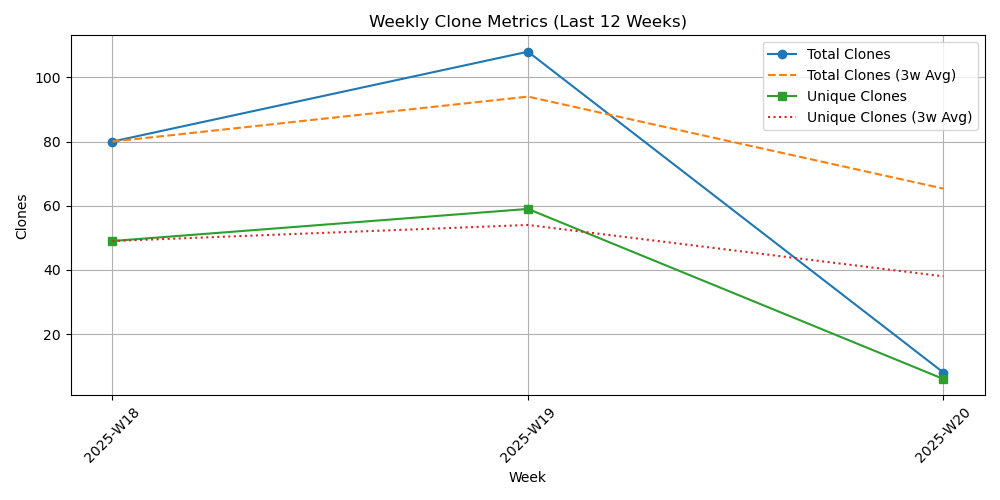
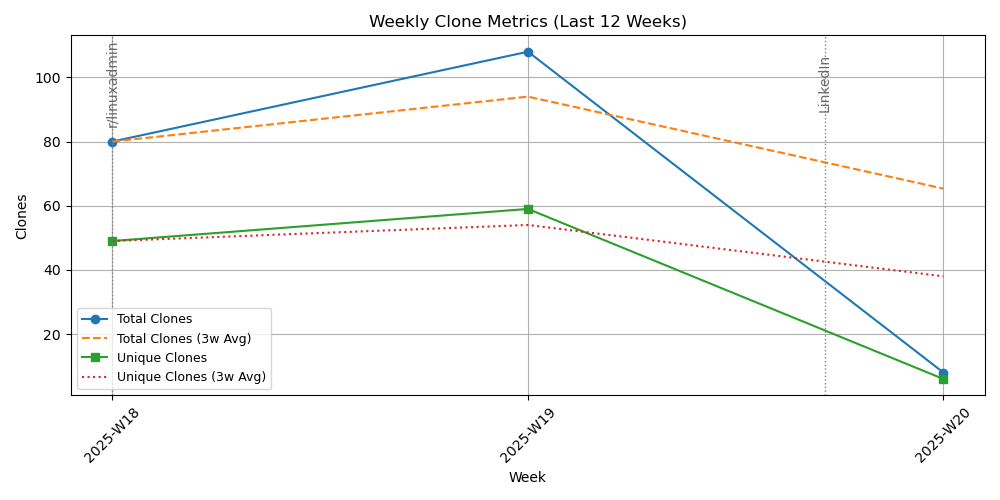
Annotations on clones dashboard

Changed region(s): [[0.775, 0.09, 0.992, 0.27], [0.062, 0.6, 0.279, 0.78], [0.093, 0.09, 0.124, 0.24]]

diff --git a/v2/src/misc/generate_clone_dashboard.py b/v2/src/misc/generate_clone_dashboard.py
@@ -1,3 +1,10 @@
+"""
+Script to generate a clone dashboard from the clones.json file.
+
+It aggregates daily clone data into weekly metrics and mark the annotations stored in the clones.json.
+"""
+
+
 import os
 import json
 import pandas as pd
@@ -24,22 +31,64 @@ weekly_data = weekly_data.sort_values('week').tail(12)
 weekly_data['count_avg'] = weekly_data['count'].rolling(window=3, min_periods=1).mean()
 weekly_data['uniques_avg'] = weekly_data['uniques'].rolling(window=3, min_periods=1).mean()
 
+# Prepare week positions
+weeks = weekly_data['week'].tolist()
+week_dates = pd.to_datetime(weekly_data['week'] + '-1', format='%Y-W%U-%w')  # week starts (Monday)
+
+# Extract annotation dates
+annotations = clones_data.get("annotations", [])
+annotation_df = pd.DataFrame(annotations)
+if not annotation_df.empty:
+    annotation_df['date'] = pd.to_datetime(annotation_df['date'])
+    annotation_df = annotation_df.sort_values('date')
+
 # Plot
-plt.figure(figsize=(10, 5))
-plt.plot(weekly_data['week'], weekly_data['count'], label='Total Clones', marker='o')
-plt.plot(weekly_data['week'], weekly_data['count_avg'], label='Total Clones (3w Avg)', linestyle='--')
+fig, ax = plt.subplots(figsize=(10, 5))
+ax.plot(weeks, weekly_data['count'], label='Total Clones', marker='o')
+ax.plot(weeks, weekly_data['count_avg'], label='Total Clones (3w Avg)', linestyle='--')
 
-plt.plot(weekly_data['week'], weekly_data['uniques'], label='Unique Clones', marker='s')
-plt.plot(weekly_data['week'], weekly_data['uniques_avg'], label='Unique Clones (3w Avg)', linestyle=':')
+ax.plot(weeks, weekly_data['uniques'], label='Unique Clones', marker='s')
+ax.plot(weeks, weekly_data['uniques_avg'], label='Unique Clones (3w Avg)', linestyle=':')
 
-plt.title("Weekly Clone Metrics (Last 12 Weeks)")
-plt.xlabel("Week")
-plt.ylabel("Clones")
-plt.grid(True)
-plt.xticks(rotation=45)
-plt.legend()
+# Add interpolated annotation markers
+for _, row in annotation_df.iterrows():
+    annotation_date = row['date']
+    label = row['label']
+    x_pos = 0  # default if out of range
+
+    for i in range(len(week_dates) - 1):
+        if week_dates[i] <= annotation_date < week_dates[i + 1]:
+            delta = (annotation_date - week_dates[i]) / (week_dates[i + 1] - week_dates[i])
+            x_pos = i + delta
+            break
+    else:
+        if annotation_date >= week_dates.iloc[-1]:
+            x_pos = len(week_dates) - 1
+        elif annotation_date < week_dates.iloc[0]:
+            x_pos = 0
+
+    ax.axvline(x=x_pos, color='gray', linestyle=':', linewidth=1)
+    ax.annotate(
+        label,
+        xy=(x_pos, ax.get_ylim()[1] * 0.85),
+        xytext=(0, 5),
+        textcoords='offset points',
+        rotation=90,
+        fontsize=10,
+        ha='center',
+        va='center',
+        color='dimgray'
+    )
+
+# Final polish
+ax.set_title("Weekly Clone Metrics (Last 12 Weeks)")
+ax.set_xlabel("Week")
+ax.set_ylabel("Clones")
+ax.grid(True)
+ax.set_xticks(range(len(weeks)))
+ax.set_xticklabels(weeks, rotation=45)
+ax.legend(loc="lower left", fontsize=9)
 plt.tight_layout()
 
 # Save chart
 plt.savefig(OUTPUT_PNG)
-

diff --git a/v2/src/misc/fetch_clones.py b/v2/src/misc/fetch_clones.py
@@ -1,4 +1,5 @@
-"""
+
+""" 
 Fetch clone data from GitHub API and update local JSON file,
 triggered by Action `fetch_clones.json`.
 The script retrieves clone statistics for the dar-backup repository
@@ -7,6 +8,7 @@ A badge on the repo README.md file will show the total number of clones.
 import os
 import json
 import requests
+from collections import OrderedDict
 
 # Constants
 API_URL = "https://api.github.com/repos/per2jensen/dar-backup/traffic/clones"
@@ -34,6 +36,7 @@ if os.path.exists(CLONES_FILE):
         clones_data = json.load(f)
 else:
     clones_data = {
+        "annotations": [],
         "total_clones": 0,
         "unique_clones": 0,
         "daily": []
@@ -56,12 +59,20 @@ for day in data.get("clones", []):
 # Only update and write the file if there are new entries
 if new_entries:
     clones_data["daily"].extend(new_entries)
-    clones_data["daily"].sort(key=lambda x: x["timestamp"])
+    clones_data["daily"].sort(key=lambda x: x["timestamp"], reverse=True)
 
     # Recalculate totals
     clones_data["total_clones"] = sum(entry["count"] for entry in clones_data["daily"])
     clones_data["unique_clones"] = sum(entry["uniques"] for entry in clones_data["daily"])
 
+    # Reorder keys to keep annotations at the top
+    ordered = OrderedDict()
+    if "annotations" in clones_data:
+        ordered["annotations"] = clones_data["annotations"]
+    ordered["total_clones"] = clones_data["total_clones"]
+    ordered["unique_clones"] = clones_data["unique_clones"]
+    ordered["daily"] = clones_data["daily"]
+
     # Save the updated file
     with open(CLONES_FILE, "w") as f:
-        json.dump(clones_data, f, indent=2)
+        json.dump(ordered, f, indent=2)
